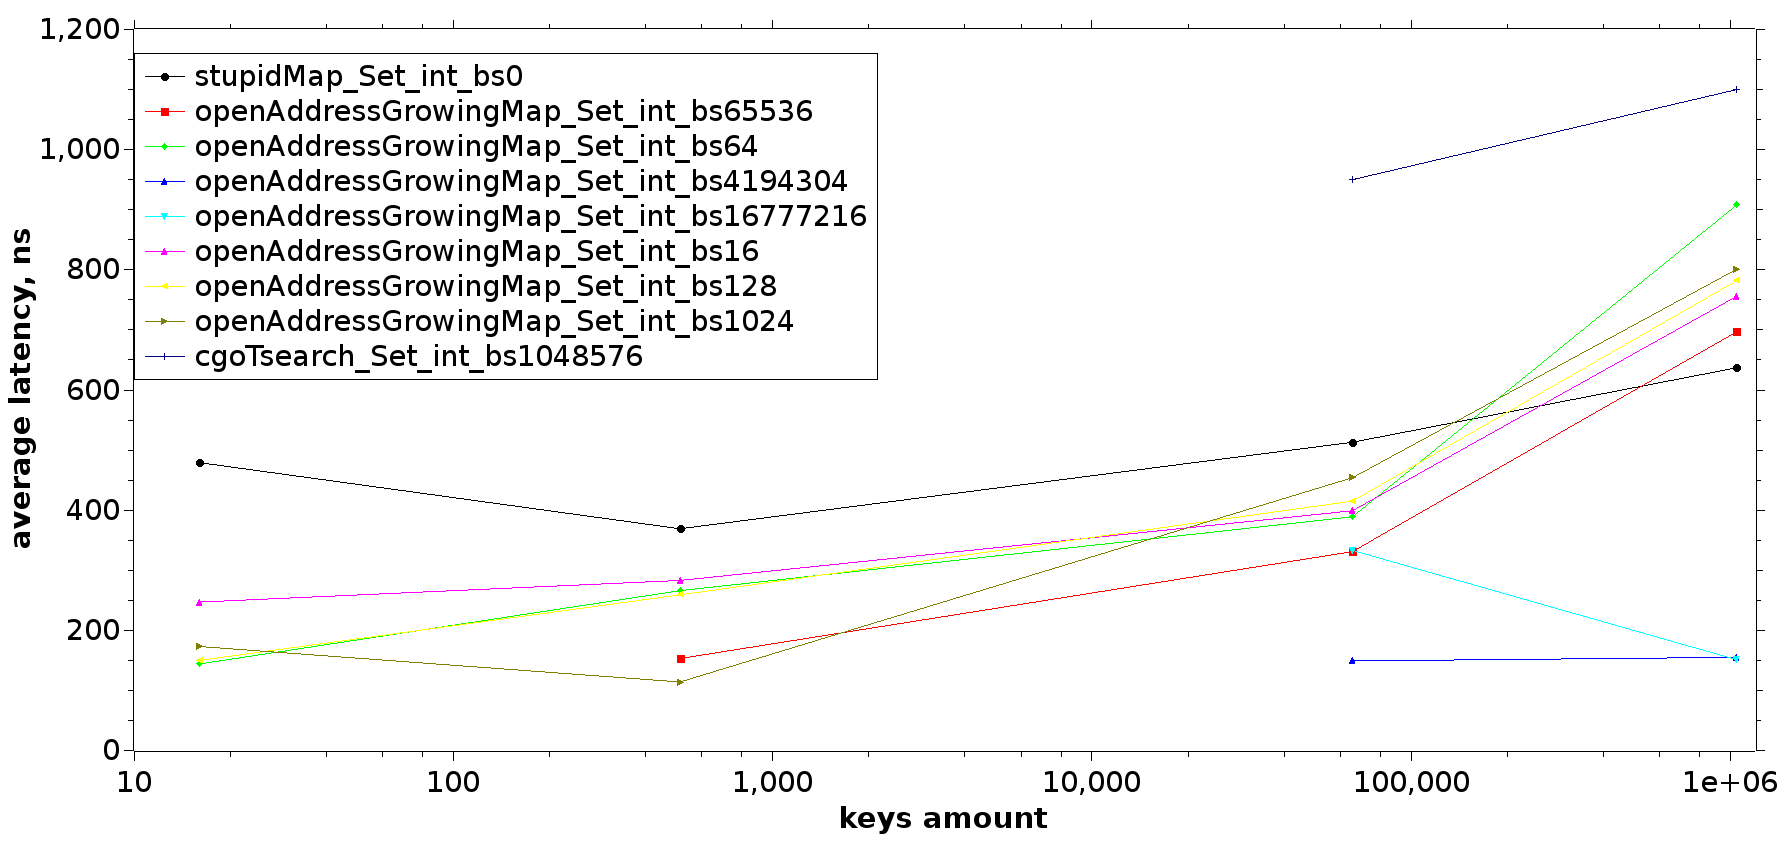
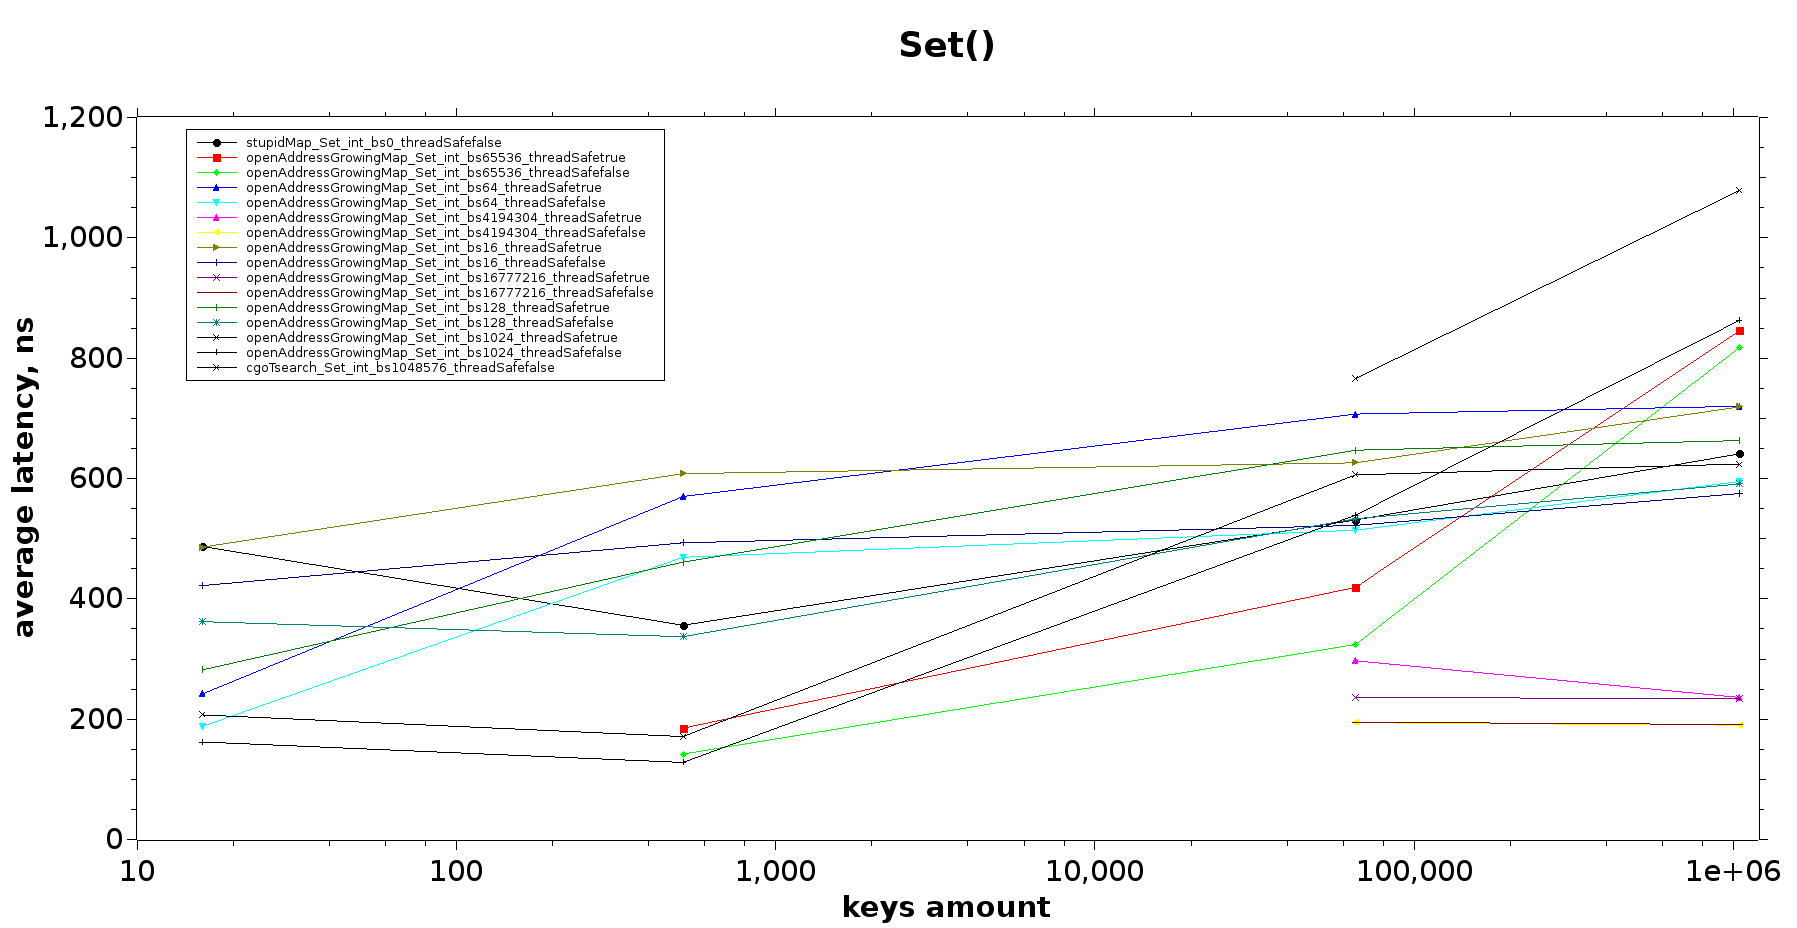
Added new results

diff --git a/solutions/stupidMap/stupid_map_test.go b/solutions/stupidMap/stupid_map_test.go
@@ -9,98 +9,98 @@ import (
 	"git.dx.center/trafficstars/testJob0/internal/routines"
 )
 
-func Benchmark_stupidMap_Set_intKeyType_blockSize0_keyAmount16(b *testing.B) {
+func Benchmark_stupidMap_Set_intKeyType_blockSize0_keyAmount16_falseThreadSafety(b *testing.B) {
 	benchmark.DoBenchmarkOfSet(b, NewHashMap, routines.HashFunc, 0, 16, "int")
 }
 
-func Benchmark_stupidMap_Set_stringKeyType_blockSize0_keyAmount16(b *testing.B) {
+func Benchmark_stupidMap_Set_stringKeyType_blockSize0_keyAmount16_falseThreadSafety(b *testing.B) {
 	benchmark.DoBenchmarkOfSet(b, NewHashMap, routines.HashFunc, 0, 16, "string")
 }
 
-func Benchmark_stupidMap_Set_intKeyType_blockSize0_keyAmount512(b *testing.B) {
+func Benchmark_stupidMap_Set_intKeyType_blockSize0_keyAmount512_falseThreadSafety(b *testing.B) {
 	benchmark.DoBenchmarkOfSet(b, NewHashMap, routines.HashFunc, 0, 512, "int")
 }
 
-func Benchmark_stupidMap_Set_stringKeyType_blockSize0_keyAmount512(b *testing.B) {
+func Benchmark_stupidMap_Set_stringKeyType_blockSize0_keyAmount512_falseThreadSafety(b *testing.B) {
 	benchmark.DoBenchmarkOfSet(b, NewHashMap, routines.HashFunc, 0, 512, "string")
 }
 
-func Benchmark_stupidMap_Set_intKeyType_blockSize0_keyAmount65536(b *testing.B) {
+func Benchmark_stupidMap_Set_intKeyType_blockSize0_keyAmount65536_falseThreadSafety(b *testing.B) {
 	benchmark.DoBenchmarkOfSet(b, NewHashMap, routines.HashFunc, 0, 65536, "int")
 }
 
-func Benchmark_stupidMap_Set_stringKeyType_blockSize0_keyAmount65536(b *testing.B) {
+func Benchmark_stupidMap_Set_stringKeyType_blockSize0_keyAmount65536_falseThreadSafety(b *testing.B) {
 	benchmark.DoBenchmarkOfSet(b, NewHashMap, routines.HashFunc, 0, 65536, "string")
 }
 
-func Benchmark_stupidMap_Set_intKeyType_blockSize0_keyAmount1048576(b *testing.B) {
+func Benchmark_stupidMap_Set_intKeyType_blockSize0_keyAmount1048576_falseThreadSafety(b *testing.B) {
 	benchmark.DoBenchmarkOfSet(b, NewHashMap, routines.HashFunc, 0, 1048576, "int")
 }
 
-func Benchmark_stupidMap_Set_stringKeyType_blockSize0_keyAmount1048576(b *testing.B) {
+func Benchmark_stupidMap_Set_stringKeyType_blockSize0_keyAmount1048576_falseThreadSafety(b *testing.B) {
 	benchmark.DoBenchmarkOfSet(b, NewHashMap, routines.HashFunc, 0, 1048576, "string")
 }
 
-func Benchmark_stupidMap_Get_intKeyType_blockSize0_keyAmount16(b *testing.B) {
+func Benchmark_stupidMap_Get_intKeyType_blockSize0_keyAmount16_falseThreadSafety(b *testing.B) {
 	benchmark.DoBenchmarkOfGet(b, NewHashMap, routines.HashFunc, 0, 16, "int")
 }
 
-func Benchmark_stupidMap_Get_stringKeyType_blockSize0_keyAmount16(b *testing.B) {
+func Benchmark_stupidMap_Get_stringKeyType_blockSize0_keyAmount16_falseThreadSafety(b *testing.B) {
 	benchmark.DoBenchmarkOfGet(b, NewHashMap, routines.HashFunc, 0, 16, "string")
 }
 
-func Benchmark_stupidMap_Get_intKeyType_blockSize0_keyAmount512(b *testing.B) {
+func Benchmark_stupidMap_Get_intKeyType_blockSize0_keyAmount512_falseThreadSafety(b *testing.B) {
 	benchmark.DoBenchmarkOfGet(b, NewHashMap, routines.HashFunc, 0, 512, "int")
 }
 
-func Benchmark_stupidMap_Get_stringKeyType_blockSize0_keyAmount512(b *testing.B) {
+func Benchmark_stupidMap_Get_stringKeyType_blockSize0_keyAmount512_falseThreadSafety(b *testing.B) {
 	benchmark.DoBenchmarkOfGet(b, NewHashMap, routines.HashFunc, 0, 512, "string")
 }
 
-func Benchmark_stupidMap_Get_intKeyType_blockSize0_keyAmount65536(b *testing.B) {
+func Benchmark_stupidMap_Get_intKeyType_blockSize0_keyAmount65536_falseThreadSafety(b *testing.B) {
 	benchmark.DoBenchmarkOfGet(b, NewHashMap, routines.HashFunc, 0, 65536, "int")
 }
 
-func Benchmark_stupidMap_Get_stringKeyType_blockSize0_keyAmount65536(b *testing.B) {
+func Benchmark_stupidMap_Get_stringKeyType_blockSize0_keyAmount65536_falseThreadSafety(b *testing.B) {
 	benchmark.DoBenchmarkOfGet(b, NewHashMap, routines.HashFunc, 0, 65536, "string")
 }
 
-func Benchmark_stupidMap_Get_intKeyType_blockSize0_keyAmount1048576(b *testing.B) {
+func Benchmark_stupidMap_Get_intKeyType_blockSize0_keyAmount1048576_falseThreadSafety(b *testing.B) {
 	benchmark.DoBenchmarkOfGet(b, NewHashMap, routines.HashFunc, 0, 1048576, "int")
 }
 
-func Benchmark_stupidMap_Get_stringKeyType_blockSize0_keyAmount1048576(b *testing.B) {
+func Benchmark_stupidMap_Get_stringKeyType_blockSize0_keyAmount1048576_falseThreadSafety(b *testing.B) {
 	benchmark.DoBenchmarkOfGet(b, NewHashMap, routines.HashFunc, 0, 1048576, "string")
 }
 
-func Benchmark_stupidMap_Unset_intKeyType_blockSize0_keyAmount16(b *testing.B) {
+func Benchmark_stupidMap_Unset_intKeyType_blockSize0_keyAmount16_falseThreadSafety(b *testing.B) {
 	benchmark.DoBenchmarkOfUnset(b, NewHashMap, routines.HashFunc, 0, 16, "int")
 }
 
-func Benchmark_stupidMap_Unset_stringKeyType_blockSize0_keyAmount16(b *testing.B) {
+func Benchmark_stupidMap_Unset_stringKeyType_blockSize0_keyAmount16_falseThreadSafety(b *testing.B) {
 	benchmark.DoBenchmarkOfUnset(b, NewHashMap, routines.HashFunc, 0, 16, "string")
 }
 
-func Benchmark_stupidMap_Unset_intKeyType_blockSize0_keyAmount512(b *testing.B) {
+func Benchmark_stupidMap_Unset_intKeyType_blockSize0_keyAmount512_falseThreadSafety(b *testing.B) {
 	benchmark.DoBenchmarkOfUnset(b, NewHashMap, routines.HashFunc, 0, 512, "int")
 }
 
-func Benchmark_stupidMap_Unset_stringKeyType_blockSize0_keyAmount512(b *testing.B) {
+func Benchmark_stupidMap_Unset_stringKeyType_blockSize0_keyAmount512_falseThreadSafety(b *testing.B) {
 	benchmark.DoBenchmarkOfUnset(b, NewHashMap, routines.HashFunc, 0, 512, "string")
 }
 
-func Benchmark_stupidMap_Unset_intKeyType_blockSize0_keyAmount65536(b *testing.B) {
+func Benchmark_stupidMap_Unset_intKeyType_blockSize0_keyAmount65536_falseThreadSafety(b *testing.B) {
 	benchmark.DoBenchmarkOfUnset(b, NewHashMap, routines.HashFunc, 0, 65536, "int")
 }
 
-func Benchmark_stupidMap_Unset_stringKeyType_blockSize0_keyAmount65536(b *testing.B) {
+func Benchmark_stupidMap_Unset_stringKeyType_blockSize0_keyAmount65536_falseThreadSafety(b *testing.B) {
 	benchmark.DoBenchmarkOfUnset(b, NewHashMap, routines.HashFunc, 0, 65536, "string")
 }
 
-func Benchmark_stupidMap_Unset_intKeyType_blockSize0_keyAmount1048576(b *testing.B) {
+func Benchmark_stupidMap_Unset_intKeyType_blockSize0_keyAmount1048576_falseThreadSafety(b *testing.B) {
 	benchmark.DoBenchmarkOfUnset(b, NewHashMap, routines.HashFunc, 0, 1048576, "int")
 }
 
-func Benchmark_stupidMap_Unset_stringKeyType_blockSize0_keyAmount1048576(b *testing.B) {
+func Benchmark_stupidMap_Unset_stringKeyType_blockSize0_keyAmount1048576_falseThreadSafety(b *testing.B) {
 	benchmark.DoBenchmarkOfUnset(b, NewHashMap, routines.HashFunc, 0, 1048576, "string")
 }

diff --git a/solutions/cgoTsearch/cgo_tsearch_test.go b/solutions/cgoTsearch/cgo_tsearch_test.go
@@ -13,26 +13,26 @@ func TestMap(t *testing.T) {
 	benchmark.DoTest(t, NewHashMap, routines.HashFunc)
 }
 
-func Benchmark_cgoTsearch_Set_intKeyType_blockSize1048576_keyAmount65536(b *testing.B) {
+func Benchmark_cgoTsearch_Set_intKeyType_blockSize1048576_keyAmount65536_falseThreadSafety(b *testing.B) {
 	benchmark.DoBenchmarkOfSet(b, NewHashMap, routines.HashFunc, 1048576, 65536, "int")
 }
 
-func Benchmark_cgoTsearch_Set_intKeyType_blockSize1048576_keyAmount1048576(b *testing.B) {
+func Benchmark_cgoTsearch_Set_intKeyType_blockSize1048576_keyAmount1048576_falseThreadSafety(b *testing.B) {
 	benchmark.DoBenchmarkOfSet(b, NewHashMap, routines.HashFunc, 1048576, 1048576, "int")
 }
 
-func Benchmark_cgoTsearch_Get_intKeyType_blockSize1048576_keyAmount65536(b *testing.B) {
+func Benchmark_cgoTsearch_Get_intKeyType_blockSize1048576_keyAmount65536_falseThreadSafety(b *testing.B) {
 	benchmark.DoBenchmarkOfGet(b, NewHashMap, routines.HashFunc, 1048576, 65536, "int")
 }
 
-func Benchmark_cgoTsearch_Get_intKeyType_blockSize1048576_keyAmount1048576(b *testing.B) {
+func Benchmark_cgoTsearch_Get_intKeyType_blockSize1048576_keyAmount1048576_falseThreadSafety(b *testing.B) {
 	benchmark.DoBenchmarkOfGet(b, NewHashMap, routines.HashFunc, 1048576, 1048576, "int")
 }
 
-func Benchmark_cgoTsearch_Unset_intKeyType_blockSize1048576_keyAmount65536(b *testing.B) {
+func Benchmark_cgoTsearch_Unset_intKeyType_blockSize1048576_keyAmount65536_falseThreadSafety(b *testing.B) {
 	benchmark.DoBenchmarkOfUnset(b, NewHashMap, routines.HashFunc, 1048576, 65536, "int")
 }
 
-func Benchmark_cgoTsearch_Unset_intKeyType_blockSize1048576_keyAmount1048576(b *testing.B) {
+func Benchmark_cgoTsearch_Unset_intKeyType_blockSize1048576_keyAmount1048576_falseThreadSafety(b *testing.B) {
 	benchmark.DoBenchmarkOfUnset(b, NewHashMap, routines.HashFunc, 1048576, 1048576, "int")
 }

diff --git a/internal/benchmarkCodeGen/template.go b/internal/benchmarkCodeGen/template.go
@@ -15,7 +15,7 @@ import (
 
 {{ define "benchmarkFunction" }}
 func Benchmark_{{ .PackageName }}_{{ .Action }}_{{ .KeyType }}KeyType_blockSize{{ .BlockSize }}_keyAmount{{ .KeyAmount }}_{{ .ThreadSafety }}ThreadSafety(b *testing.B) {
-	{{if not .ThreadSafety}}threadSafe = false; {{end}}benchmark.DoBenchmarkOf{{ .Action }}(b, NewHashMap, routines.HashFunc, {{ .BlockSize }}, {{ .KeyAmount }}, "{{ .KeyType }}"){{if not .ThreadSafety}}; threadSafe = true{{end}}
+	{{if and (not .ThreadSafety) (eq .PackageName "openAddressGrowingMap")}}threadSafe = false; {{end}}benchmark.DoBenchmarkOf{{ .Action }}(b, NewHashMap, routines.HashFunc, {{ .BlockSize }}, {{ .KeyAmount }}, "{{ .KeyType }}"){{if and (not .ThreadSafety) (eq .PackageName "openAddressGrowingMap")}}; threadSafe = true{{end}}
 }
 {{ end }}
 {{ define "testFunction" }}

diff --git a/post_process/prepare_csv/main.go b/post_process/prepare_csv/main.go
@@ -57,7 +57,8 @@ func main() {
 		keyTypeName := row[3]
 		blockSizeStr := row[4]
 		keysAmountStr := row[5]
-		opExecTimeStr := row[8]
+		threadSafetyStr := row[6]
+		opExecTimeStr := row[9]
 
 		if keyTypeName != requiredKeyTypeName {
 			continue
@@ -67,7 +68,7 @@ func main() {
 			continue
 		}
 
-		seriesName := mapTypeName + "_" + actionName + "_" + keyTypeName + "_bs" + blockSizeStr
+		seriesName := mapTypeName + "_" + actionName + "_" + keyTypeName + "_bs" + blockSizeStr + "_threadSafe" + threadSafetyStr
 		seriesNamesMap[seriesName] = true
 
 		keysAmount, err := strconv.Atoi(keysAmountStr)

diff --git a/solutions/openAddressGrowingMap/open_growing_map_test.go b/solutions/openAddressGrowingMap/open_growing_map_test.go
@@ -9,6 +9,14 @@ import (
 	"git.dx.center/trafficstars/testJob0/internal/routines"
 )
 
+func TestMap(t *testing.T) {
+	benchmark.DoTest(t, NewHashMap, routines.HashFunc)
+}
+
+func TestMapCollisions(t *testing.T) {
+	benchmark.DoTestCollisions(t, NewHashMap, routines.HashFunc)
+}
+
 func TestMapConcurrency(t *testing.T) {
 	benchmark.DoTestConcurrency(t, NewHashMap, routines.HashFunc)
 }
